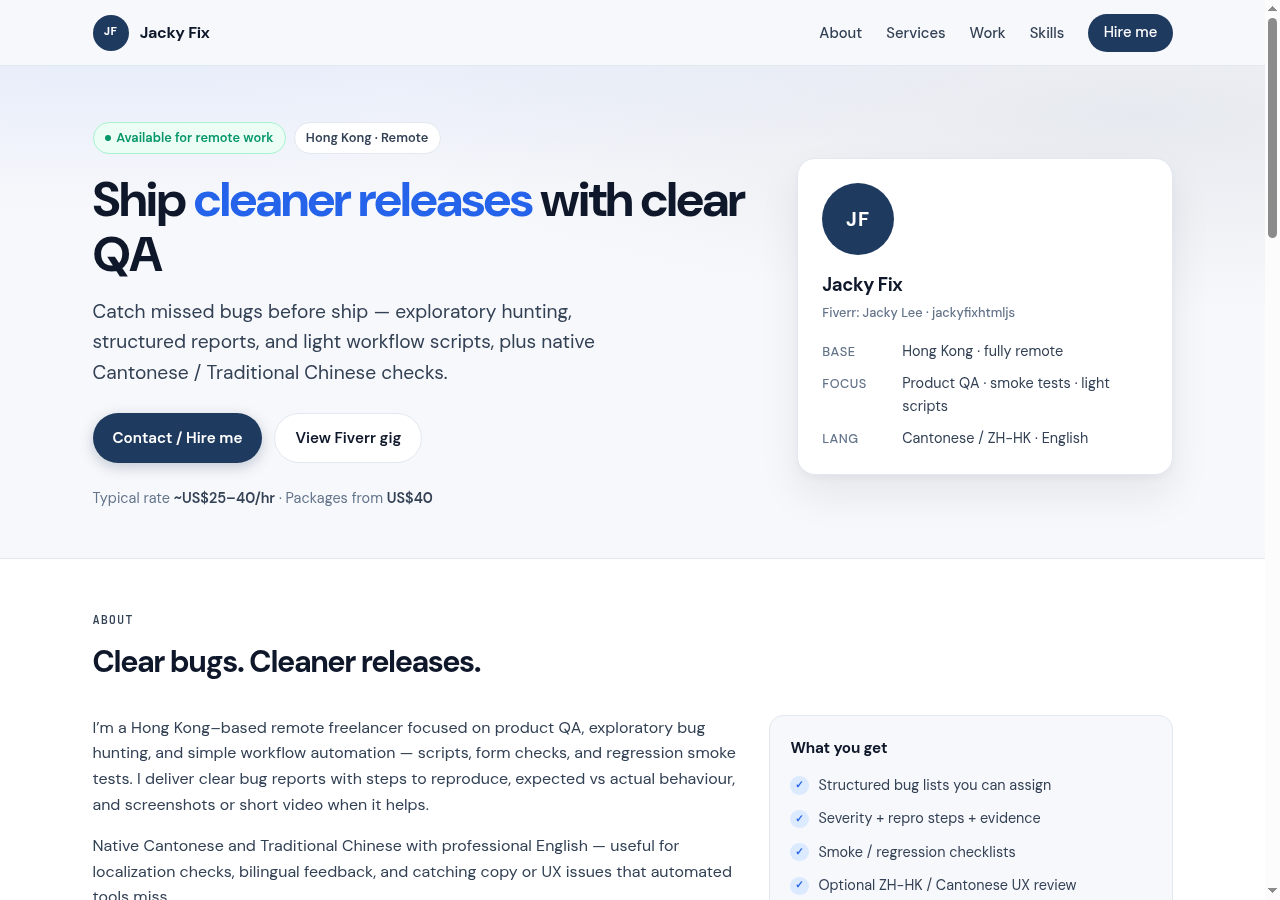
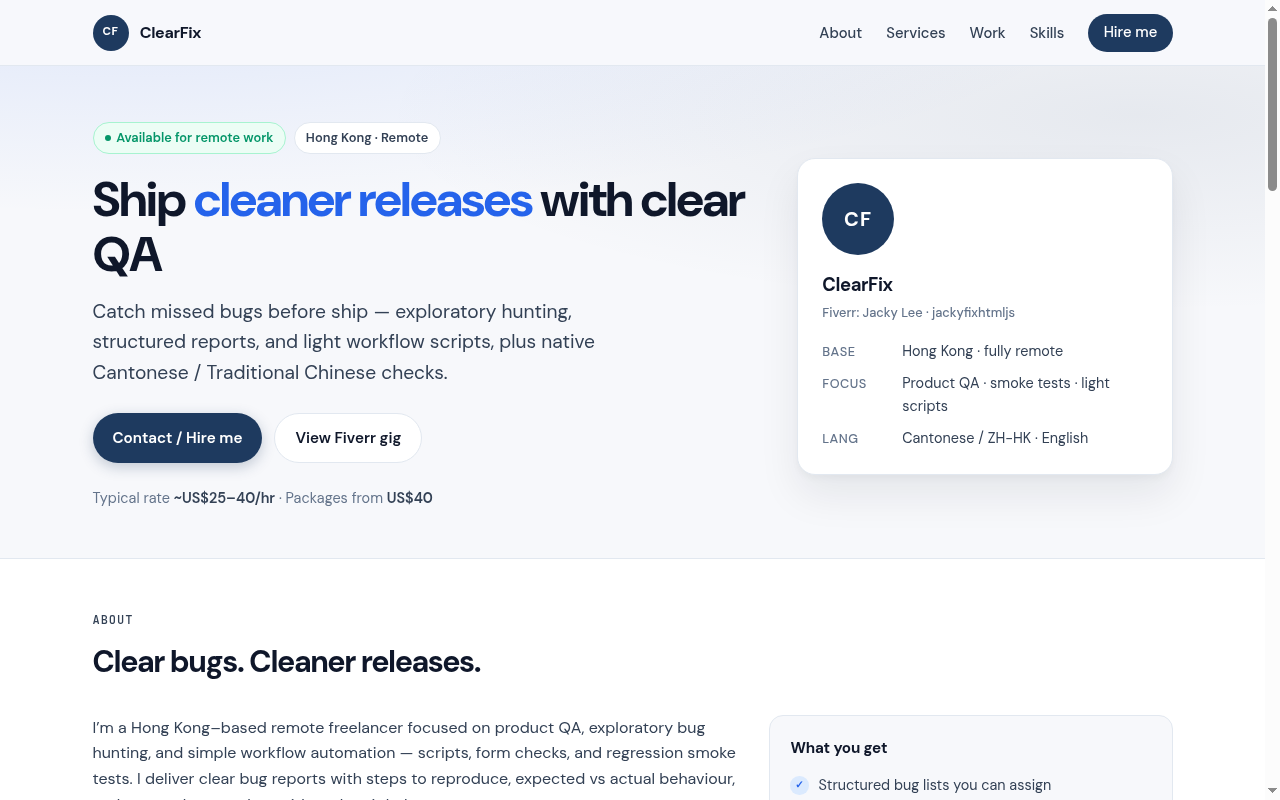
Rebrand to ClearFix (CF monogram)

diff --git a/index.html b/index.html
@@ -3,15 +3,15 @@
 <head>
   <meta charset="UTF-8" />
   <meta name="viewport" content="width=device-width, initial-scale=1" />
-  <meta name="description" content="Jacky Fix — Hong Kong remote QA, exploratory bug hunting, and light automation. Clear bug reports. Native Cantonese / Traditional Chinese." />
-  <meta name="author" content="Jacky Fix" />
-  <title>Jacky Fix — Remote QA &amp; Automation | Hong Kong</title>
-  <meta property="og:title" content="Jacky Fix — Remote QA &amp; Automation | Hong Kong" />
+  <meta name="description" content="ClearFix — Hong Kong remote QA, exploratory bug hunting, and light automation. Clear bug reports. Native Cantonese / Traditional Chinese." />
+  <meta name="author" content="ClearFix" />
+  <title>ClearFix — Remote QA &amp; Automation | Hong Kong</title>
+  <meta property="og:title" content="ClearFix — Remote QA &amp; Automation | Hong Kong" />
   <meta property="og:description" content="Hong Kong remote QA, exploratory bug hunting, and light automation. Clear bug reports. Native Cantonese / Traditional Chinese." />
   <meta property="og:image" content="preview.png" />
   <meta property="og:type" content="website" />
   <meta name="twitter:card" content="summary_large_image" />
-  <meta name="twitter:title" content="Jacky Fix — Remote QA &amp; Automation | Hong Kong" />
+  <meta name="twitter:title" content="ClearFix — Remote QA &amp; Automation | Hong Kong" />
   <meta name="twitter:description" content="Hong Kong remote QA, exploratory bug hunting, and light automation. Clear bug reports. Native Cantonese / Traditional Chinese." />
   <meta name="twitter:image" content="preview.png" />
   <link rel="icon" href="favicon.svg" type="image/svg+xml" />
@@ -672,9 +672,9 @@
 
   <header class="site-header">
     <div class="wrap nav">
-      <a class="brand" href="#top" aria-label="Jacky Fix home">
-        <span class="avatar" aria-hidden="true">JF</span>
-        Jacky Fix
+      <a class="brand" href="#top" aria-label="ClearFix home">
+        <span class="avatar" aria-hidden="true">CF</span>
+        ClearFix
       </a>
       <nav aria-label="Primary">
         <ul class="nav-links">
@@ -723,8 +723,8 @@
         </div>
 
         <aside class="hero-card" aria-label="Profile summary">
-          <div class="big-avatar" aria-hidden="true">JF</div>
-          <h2>Jacky Fix</h2>
+          <div class="big-avatar" aria-hidden="true">CF</div>
+          <h2>ClearFix</h2>
           <p class="alias">Fiverr: Jacky Lee · jackyfixhtmljs</p>
           <ul class="hero-meta">
             <li><span class="label">Base</span><span>Hong Kong · fully remote</span></li>
@@ -967,7 +967,7 @@
 
   <footer>
     <div class="wrap footer-inner">
-      <p>© <span id="y"></span> Jacky Fix · Hong Kong · Remote QA &amp; light automation</p>
+      <p>© <span id="y"></span> ClearFix · Hong Kong · Remote QA &amp; light automation</p>
       <p>
         <a href="mailto:jackyfix@mail.grokbot.com">Contact</a>
         ·

diff --git a/README.md b/README.md
@@ -1,9 +1,9 @@
-# Jacky Fix — Portfolio
+# ClearFix — Portfolio
 
 Single-page professional portfolio for remote QA & light automation (Hong Kong).
 
 ## Brand
-- Primary: **Jacky Fix**
+- Primary: **ClearFix**
 - Fiverr alias: Jacky Lee / `jackyfixhtmljs`
 
 ## Local preview
